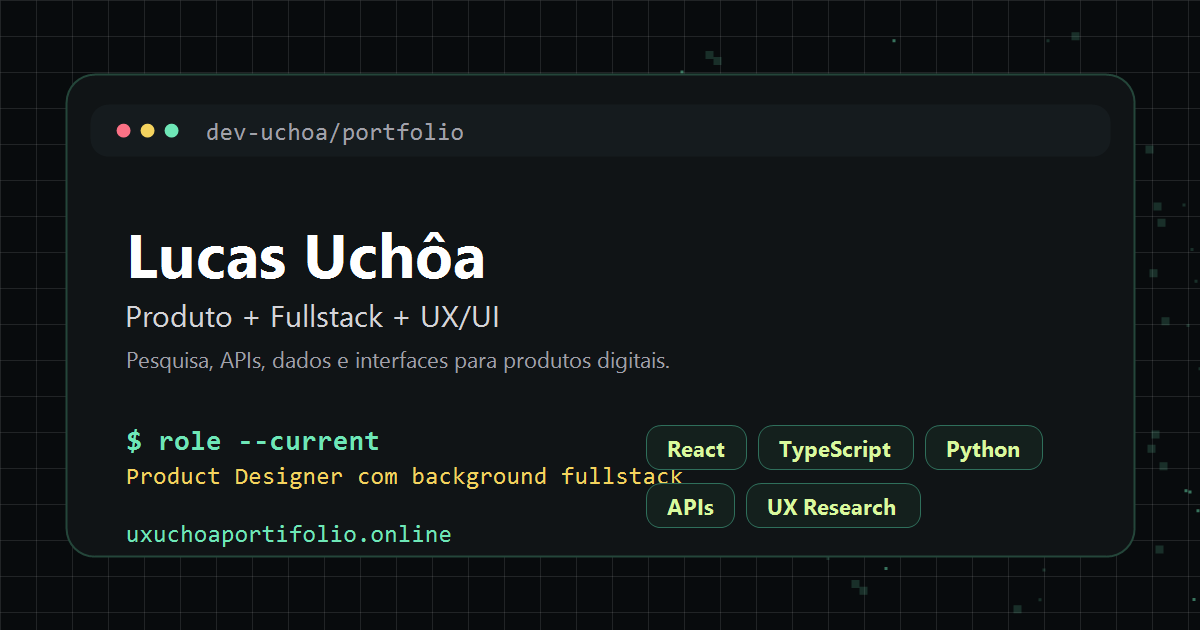
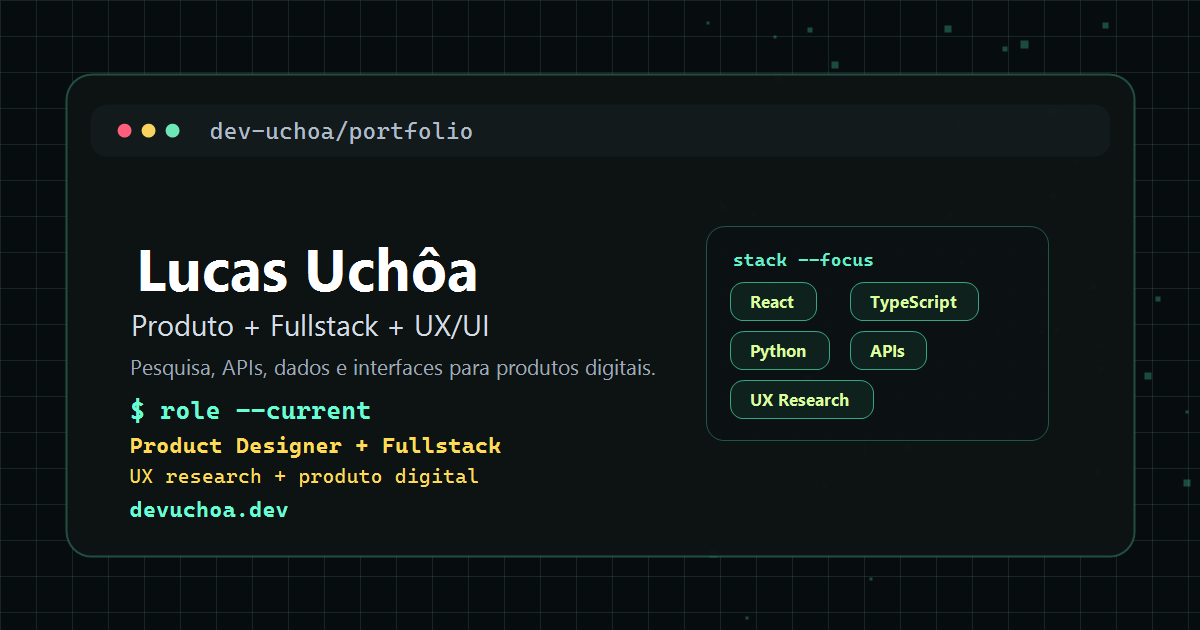
V 1.0.3
Preview adjustments

diff --git a/index.html b/index.html
@@ -18,24 +18,24 @@
     <meta property="og:url" content="https://devuchoa.dev/" />
     <meta property="og:title" content="Lucas Uchôa | Produto, Fullstack e UX/UI" />
     <meta property="og:description" content="Product Designer com background fullstack, projetos em React, TypeScript, Python, APIs, pesquisa com usuário e UX/UI." />
-    <meta property="og:image" content="https://devuchoa.dev/images/portfolio-preview.png" />
+    <meta property="og:image" content="https://devuchoa.dev/images/portfolio-preview.png?v=20260627-3" />
     <meta property="og:image:type" content="image/png" />
     <meta property="og:image:width" content="1200" />
     <meta property="og:image:height" content="630" />
-    <meta property="og:image:secure_url" content="https://devuchoa.dev/images/portfolio-preview.png" />
+    <meta property="og:image:secure_url" content="https://devuchoa.dev/images/portfolio-preview.png?v=20260627-3" />
     <meta property="og:image:alt" content="Preview do Portfolio de Lucas Uchôa com visual de terminal, Produto, Fullstack e UX/UI" />
     <meta property="og:locale" content="pt_BR" />
     <meta property="og:locale:alternate" content="en_US" />
     <meta property="og:site_name" content="Lucas Uchôa Portfolio" />
     <!-- WhatsApp specific -->
-    <meta property="og:image:url" content="https://devuchoa.dev/images/portfolio-preview.png" />
+    <meta property="og:image:url" content="https://devuchoa.dev/images/portfolio-preview.png?v=20260627-3" />
     
     <!-- Twitter Cards -->
     <meta name="twitter:card" content="summary_large_image" />
     <meta name="twitter:url" content="https://devuchoa.dev/" />
     <meta name="twitter:title" content="Lucas Uchôa | Produto, Fullstack e UX/UI" />
     <meta name="twitter:description" content="Product Designer com background fullstack, projetos em React, TypeScript, Python, APIs, pesquisa com usuário e UX/UI." />
-    <meta name="twitter:image" content="https://devuchoa.dev/images/portfolio-preview.png" />
+    <meta name="twitter:image" content="https://devuchoa.dev/images/portfolio-preview.png?v=20260627-3" />
     <meta name="twitter:image:alt" content="Preview do Portfolio de Lucas Uchôa com visual de terminal, Produto, Fullstack e UX/UI" />
     
     <!-- Meta tags adicionais para melhor compatibilidade -->

diff --git a/public/test-meta.html b/public/test-meta.html
@@ -10,11 +10,11 @@
     <meta property="og:url" content="https://devuchoa.dev/test-meta.html" />
     <meta property="og:title" content="TESTE - Lucas Uchôa Portfolio" />
     <meta property="og:description" content="Página de teste para verificar meta tags Open Graph do portfólio." />
-    <meta property="og:image" content="https://devuchoa.dev/images/portfolio-preview.png" />
+    <meta property="og:image" content="https://devuchoa.dev/images/portfolio-preview.png?v=20260627-3" />
     <meta property="og:image:type" content="image/png" />
     <meta property="og:image:width" content="1200" />
     <meta property="og:image:height" content="630" />
-    <meta property="og:image:secure_url" content="https://devuchoa.dev/images/portfolio-preview.png" />
+    <meta property="og:image:secure_url" content="https://devuchoa.dev/images/portfolio-preview.png?v=20260627-3" />
     <meta property="og:image:alt" content="Preview do Portfolio de Lucas Uchôa com visual de terminal" />
     <meta property="og:site_name" content="Lucas Uchôa Portfolio" />
     
@@ -22,7 +22,7 @@
     <meta name="twitter:card" content="summary_large_image" />
     <meta name="twitter:title" content="TESTE - Lucas Uchôa Portfolio" />
     <meta name="twitter:description" content="Página de teste para verificar meta tags Open Graph do portfólio." />
-    <meta name="twitter:image" content="https://devuchoa.dev/images/portfolio-preview.png" />
+    <meta name="twitter:image" content="https://devuchoa.dev/images/portfolio-preview.png?v=20260627-3" />
     
     <!-- Force refresh -->
     <meta http-equiv="Cache-Control" content="no-cache, no-store, must-revalidate">
@@ -34,7 +34,7 @@
     
     <h2>📋 Informações:</h2>
     <p><strong>URL da Página:</strong> <a href="https://devuchoa.dev/test-meta.html" target="_blank">https://devuchoa.dev/test-meta.html</a></p>
-    <p><strong>Imagem Preview:</strong> <a href="https://devuchoa.dev/images/portfolio-preview.png" target="_blank">https://devuchoa.dev/images/portfolio-preview.png</a></p>
+    <p><strong>Imagem Preview:</strong> <a href="https://devuchoa.dev/images/portfolio-preview.png?v=20260627-3" target="_blank">https://devuchoa.dev/images/portfolio-preview.png?v=20260627-3</a></p>
     
     <h2>🔧 Como Testar:</h2>
     <ol>

diff --git a/src/App.tsx b/src/App.tsx
@@ -179,7 +179,7 @@ function App() {
         <HeroSection content={content} cvFile={cvFile} onNavigate={scrollToSection} />
         <ProfileBridgeSection content={content} />
         <StackSection content={content} />
-        <GithubSection content={content} locale={locale} {...githubData} />
+        <GithubSection key={locale} content={content} locale={locale} {...githubData} />
         <WorkSection content={content} onOpenPDF={openPDFViewer} />
         <ExperienceSection content={content} />
         <ContactSection content={content} />
